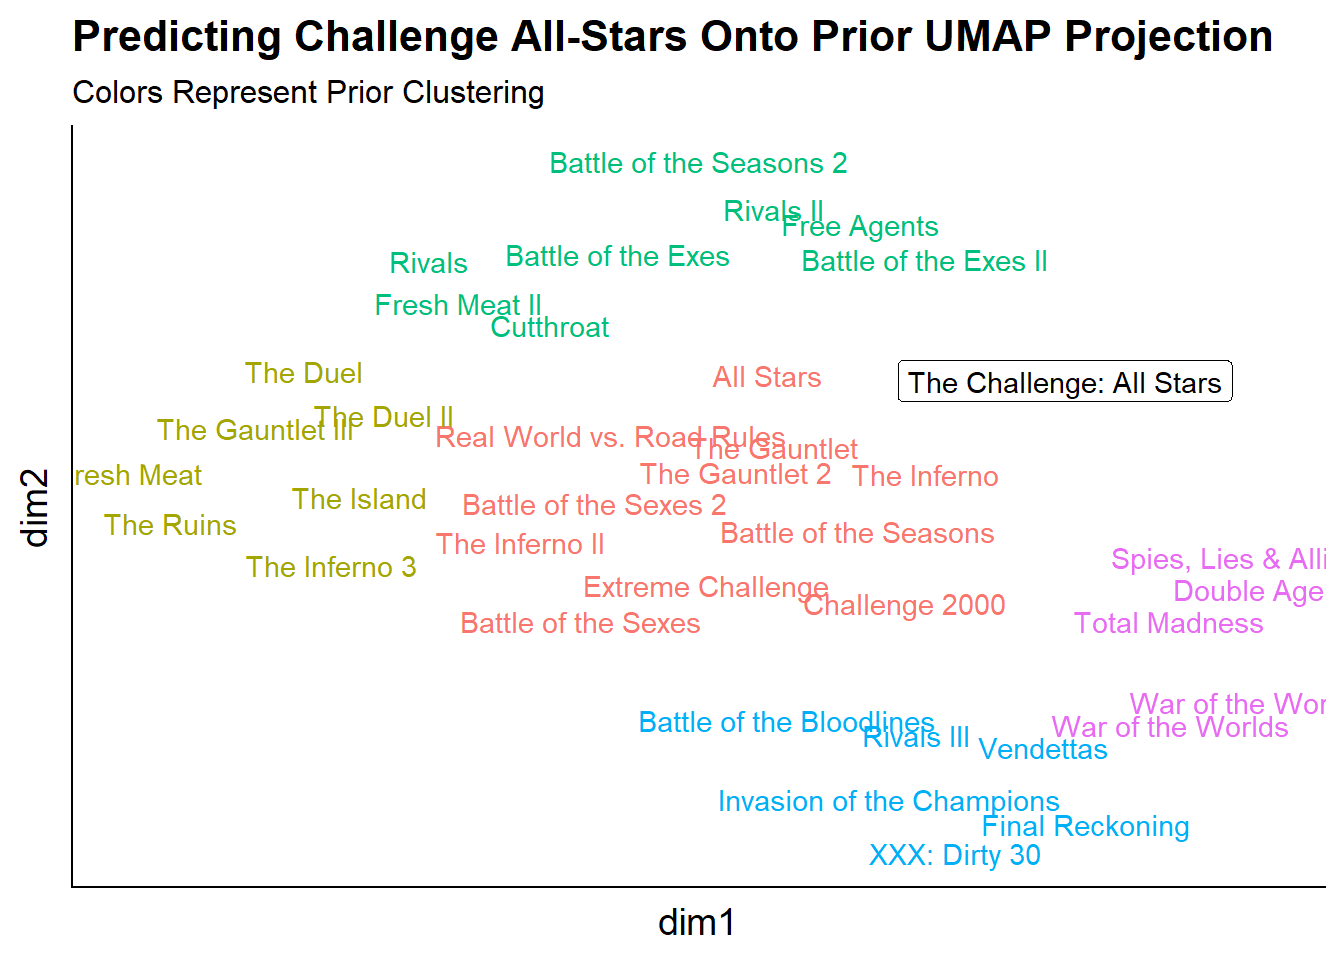
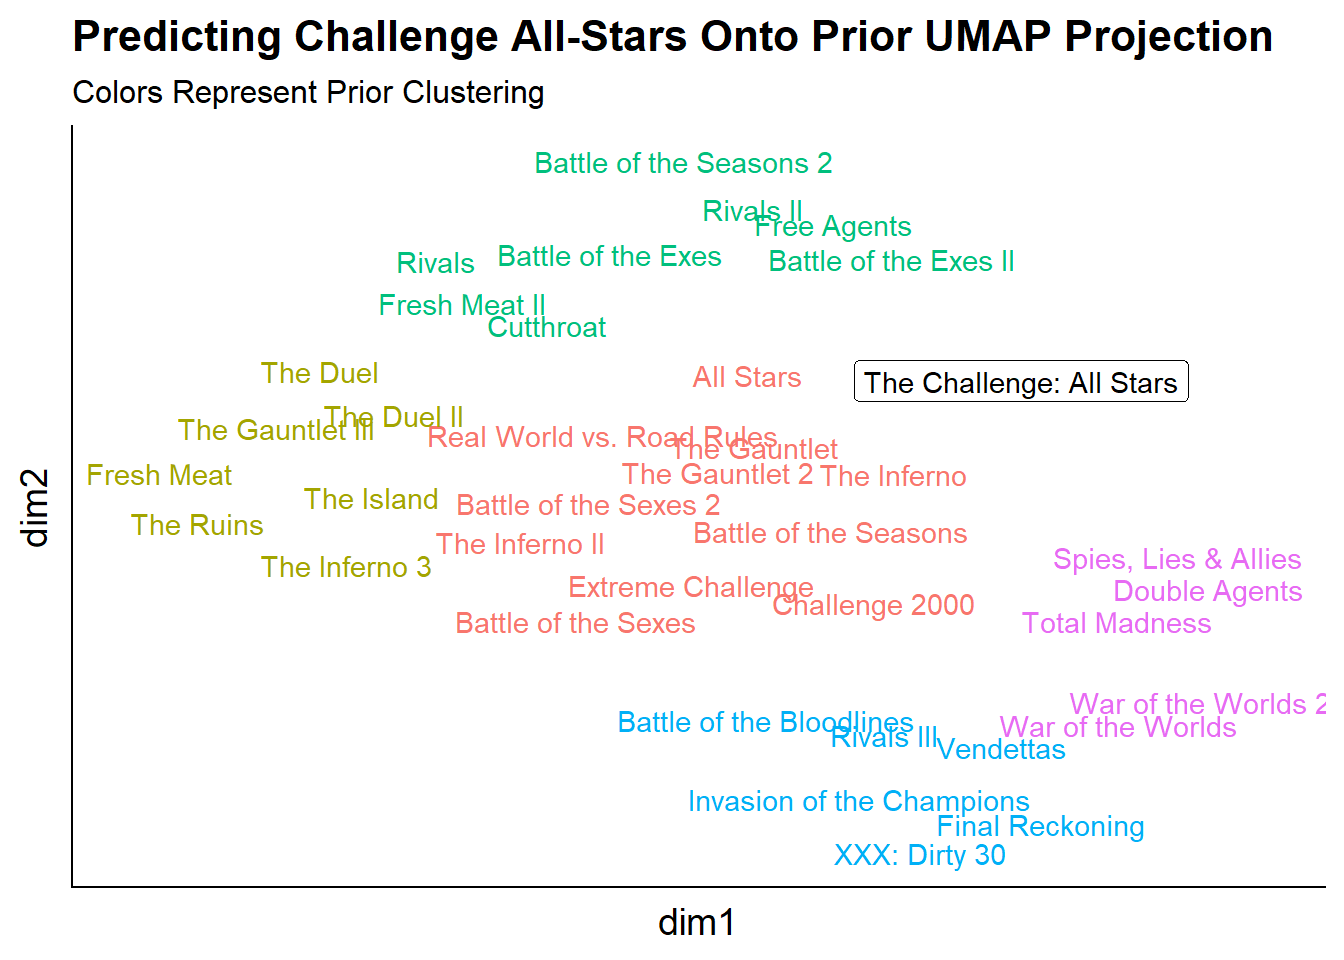
visualization and language updates

diff --git a/content/post/2021-09-15-finding-the-eras-of-mtv-s-the-challenge-through-clustering/index.html b/content/post/2021-09-15-finding-the-eras-of-mtv-s-the-challenge-through-clustering/index.html
@@ -25,8 +25,8 @@ projects: []
 <script src="{{< blogdown/postref >}}index_files/header-attrs/header-attrs.js"></script>
 
 
-<p>Since 1998, <a href="https://en.wikipedia.org/wiki/The_Challenge_(TV_series)">MTV’s The Challenge</a> (formerly the Real World/Road Rules Challenge) has graced the airwaves where it is currently in Season 37. In a prior <a href="https://jlaw.netlify.app/2021/03/01/exploring-wednesday-night-cable-ratings-with-ocr/">post</a> I had mentioned that this is one of my guilty pleasure shows so this will likely not be the last post that is based around the Challenge.</p>
-<p>For casting the show, the early years revolved around having alumni from MTV’s The Real World and Road Rules compete against each other (in an odd bit of irony or misnaming, the first season called Real World: All Stars actually consisted of <strong>only</strong> Real World alumni). Over the next 37 seasons, the series has evolved bringing in other MTV properties such as “Are You the One?” and expanding internationally to properties like “Survivor: Turkey” and “Love Island UK”.</p>
+<p>Since 1998, <a href="https://en.wikipedia.org/wiki/The_Challenge_(TV_series)">MTV’s The Challenge</a> (formerly the Real World/Road Rules Challenge) has graced the airwaves where it is currently in Season 37. In a prior <a href="https://jlaw.netlify.app/2021/03/01/exploring-wednesday-night-cable-ratings-with-ocr/">post</a> I had mentioned that this is one of my guilty pleasure shows so this will likely not be the last post that is based around <a href="https://www.complex.com/pop-culture/2015/01/the-challenge-mtv-americas-fifth-sport">America’s 5th professional sport</a>.</p>
+<p>For casting the show, the early years revolved around having alumni from MTV’s The Real World and Road Rules compete against each other (in an odd bit of irony or misnaming, the first season called Road Rules: All Stars actually consisted of <strong>only</strong> Real World alumni). Over the next 37 seasons, the series has evolved bringing in other MTV properties such as “Are You the One?” and expanding internationally to properties like “Survivor: Turkey” and “Love Island UK”.</p>
 <p>Since the cast of characters has continuously evolved over the 37 seasons, I thought it would be interested to see if I can algorithmically classify the eras of the show based on the cast of each season through Hierarchical Clustering and visualizing using UMAP.</p>
 <div id="libraries" class="section level2">
 <h2>Libraries</h2>
@@ -39,7 +39,8 @@ library(umap) # For dimensionality reduction</code></pre>
 </div>
 <div id="getting-the-data" class="section level2">
 <h2>Getting the Data</h2>
-<p>Since the goal is to cluster the seasons of the The Challenge based on similarity of their casts, I need to get the cast list from each of the 37 seasons. Fortunately, Wikipedia contains the casts within each season’s page. Unfortunately, I’m lazy and really don’t want to specifically hunt down the URLs for each of 37 seasons and write individual rvest code. So I’ll use the <a href="https://en.wikipedia.org/wiki/The_Challenge_(TV_series)#Seasons">Seasons</a> table on Wikipedia to act as a driver file for each season’s page using <code>rvest</code> to extract the table using its xpath, pulling out all of the anchor elements (<a>) <em>html_attrs()</em> to extract all of the attributes into a list and using <code>purrr</code>’s <code>map_dfr</code> function to combine all of the links into a list. Unfortunately, there are multiple links on row of the table (one for the title and one of the location of the season), so using <code>stringr</code>’s <em>str_detect</em>, I’ll keep only the rows that has the word “Challenge” in the title. Or “Stars” in the case of the first season which was just called “Road Rules: All-Stars”.</p>
+<p>Since the goal is to cluster the seasons of the The Challenge based on similarity of their casts, I need to get the cast list from each of the 37 seasons. Fortunately, Wikipedia contains the casts within each season’s page. Unfortunately, I’m lazy and really don’t want to specifically hunt down the URLs for each of 37 seasons and write individual rvest code.</p>
+<p>So I’ll use the <a href="https://en.wikipedia.org/wiki/The_Challenge_(TV_series)#Seasons">Seasons</a> table on Wikipedia to act as a driver file for each season’s page using <code>rvest</code> to extract the table using its xpath, pulling out all of the anchor elements (<code>&lt;a&gt;</code>), using <em>html_attrs()</em> to extract all of the attributes into a list and using <code>purrr</code>’s <code>map_dfr</code> function to combine all of the links into a list. Unfortunately, there are multiple links on row of the table (one for the title and one of the location of the season), so using <code>stringr</code>’s <em>str_detect</em>, I’ll keep only the rows that has the word “Challenge” in the title. Or “Stars” in the case of the first season which was just called “Road Rules: All-Stars”.</p>
 <pre class="r"><code>seasons &lt;- read_html(&#39;https://en.wikipedia.org/wiki/The_Challenge_(TV_series)&#39;) %&gt;%
   html_element(xpath = &#39;/html/body/div[3]/div[3]/div[5]/div[1]/table[2]&#39;) %&gt;% 
   html_elements(&#39;a&#39;) %&gt;% 
@@ -74,23 +75,7 @@ library(umap) # For dimensionality reduction</code></pre>
 </tbody>
 </table>
 <p>The dataset now has the Wikipedia link for each season in the <em>href</em> column and a more human-reading title in the <em>title</em> column.</p>
-<p>The next problem to tackle is iterating through each season to extract the cast table. The issue here is that the Cast table is not uniform on each season’s page and the cast table is not always the same ordered table. In fact, there are three classes of tables to have to deal with:</p>
-<ol style="list-style-type: decimal">
-<li>Multiple Tables - Single Names</li>
-</ol>
-<p>For many of The Challenge seasons there are two teams (originally Real World vs. Road Rules but eventually taking on other themes like Rookies vs. Vets, Champions vs. Challengers, etc.). In this cases, there are two tables to exact with each table having one column for cast the member name.</p>
-<p><img src="two_table_one_name.png" /></p>
-<ol start="2" style="list-style-type: decimal">
-<li>Single Table - Two Names</li>
-</ol>
-<p>In seasons where there are pairs instead of teams, such as Fresh Meat, Rivals and Battle of the Exes, there will be one table for the cast but two columns of names to extract.</p>
-<p><img src="one_table_two_names.PNG" /></p>
-<ol start="3" style="list-style-type: decimal">
-<li>Multiple Tables - Two Names</li>
-</ol>
-<p>In the original Battle of the Seasons there were pairs (one male and one female from each season) that were also classified into teams (Real World or Road Rules). For this season, there were two tables to extract and each with two columns, one for the male and one for the female.</p>
-<p><img src="two_table_two_names.jpg" /></p>
-<p>There was no easy way (or at least one that I wanted to deal with) to automatically classify each of the 37 seasons into these three types so I manually looked at all 37 season Wikipedia pages and coded in which tables to extract and which columns to extract within each table.</p>
+<p>The next problem to tackle is iterating through each season to extract the cast table. The issue here is that the Cast table is not uniform on each season’s page and the cast table is not always the same ordered table. So in the end I did have to look at all 37 pages to determine which tables and which columns within those tables to extract.</p>
 <pre class="r"><code>## Set up which tables and columns to extract from Wikipedia
 seasons &lt;- seasons %&gt;%
   mutate(
@@ -109,7 +94,7 @@ seasons &lt;- seasons %&gt;%
       TRUE ~ &#39;1&#39;
     )
   )</code></pre>
-<p>For example, the default was Multiple Tables - One Column where the two tables were the 3rd and 4th tables on the page and we only needed the first column.</p>
+<p>For example, the default was where the two tables to extract were the 3rd and 4th tables on the page and I only needed the first column.</p>
 <p>With this additional metadata, I could now write a function to read the URL and extract the correct tables and table columns:</p>
 <pre class="r"><code>### Write Function to Scrape the Names
 get_cast &lt;- function(url, table_num, keep_cols, title, order){
@@ -369,12 +354,13 @@ as_tbl_graph(similarity) %&gt;%
     geom_node_label(aes(label = name, fill = order), size = 5) + 
     scale_fill_viridis_c(begin = .3) + 
     scale_shape_discrete(guide = &#39;none&#39;) + 
+    scale_x_continuous(expand = expansion(add = c(.6, .8))) +
     labs(title = &quot;Network of Challenge Seasons&quot;,
          subtitle = &quot;Edges measured by Cosine Similarity of Cast&quot;,
          caption = &quot;All Stars and RW vs RR did not have &gt;.0.29 Similarity to Any Other Season&quot;,
          alpha = &quot;Cosine Similarity&quot;,
          fill = &quot;Season #&quot;) + 
-    theme_graph() + 
+    theme_graph(plot_margin = margin(30, 0, 0, 30)) + 
     theme(
       legend.position = &#39;bottom&#39;
     )</code></pre>
@@ -383,9 +369,9 @@ Through the network graph we can see that the first two seasons aren’t connect
 </div>
 <div id="clustering-the-seasons-with-hierarchical-clustering" class="section level2">
 <h2>Clustering the Seasons with Hierarchical Clustering</h2>
-<p>Now that EDA is done, its time to determine our eras through clustering. In order to use hierarchical clustering I need to create a distance matrix. So do so I will replicate some of the code from above where each row will be a season and each column a Challenger and the value will be either 1 if they were on that season or 0 otherwise.</p>
-<p>Since this data is binary I will be using a binary distance where 1 and 1 is a match and anything else is a mismatch (e.g, 0 and 0 despite being the same value does not count as similarity). The definition is the proportion of bits in which only one is one among those where at least one is one.</p>
-<p>Then the hierarchical clustering algorithm is run with <code>hclust</code>. There are many different agglomeration methods that can be used ranging from single (where difference between clusters is defined by their closest elements), complete (which defines differences by farthest apart elements), average (which is the average of all the points distance), and Ward which is the minimal distance between sum of squares. For more information, see this <a href="https://stats.stackexchange.com/questions/195446/choosing-the-right-linkage-method-for-hierarchical-clustering/217742#217742">CrossValidated</a> answer.</p>
+<p>Now that EDA is done, its time to determine our eras through clustering. In order to use hierarchical clustering I need to create a distance matrix. To do so I will replicate some of the code from above where each row will be a season and each column a Challenger and the value will be either 1 if they were on that season or 0 otherwise.</p>
+<p>Since this data is binary I will be using a binary distance where 1 and 1 is a match and any 1/0 pair is a mismatch (e.g, 0 and 0 despite being the same value does not count as similarity). The definition is the proportion of bits in which only one is on among those where at least one is on.</p>
+<p>Then the hierarchical clustering algorithm is run with <code>hclust</code>. There are many different agglomeration methods that can be used ranging from <strong>single</strong> (where difference between clusters is defined by their closest elements), <strong>complete</strong> (which defines differences by farthest apart elements), <strong>average</strong> (which is the average of all the points distance), and <strong>Ward</strong> which is the minimal distance between sum of squares. For more information, see this <a href="https://stats.stackexchange.com/questions/195446/choosing-the-right-linkage-method-for-hierarchical-clustering/217742#217742">CrossValidated</a> answer.</p>
 <pre class="r"><code># Cast Data to Wide Format
 dt &lt;- all_cast_info %&gt;%
   transmute(order, short_title, Name, ind = 1) %&gt;%
@@ -401,51 +387,89 @@ dst &lt;- dt %&gt;%
   select(-order, -short_title) %&gt;%
   dist(method = &#39;binary&#39;) %&gt;%
   #the agglomeration method to be used. 
-  # This should be (an unambiguous abbreviation of) one of &quot;ward.D&quot;, 
-  #&quot;ward.D2&quot;, &quot;single&quot;, &quot;complete&quot;, &quot;average&quot; (= UPGMA), &quot;mcquitty&quot; (= WPGMA),
-  #&quot;median&quot; (= WPGMC) or &quot;centroid&quot; (= UPGMC).
   hclust(method = &#39;ward.D2&#39;)</code></pre>
-<p>I can then visualize the resulting dendrogram using the <code>plot()</code> function and supplying the short_title field I can previously excluded as a label parameter. By looking at the dendrogram it seems like there are five clusters which I will highlight with the <code>rect.hclust</code> function and specifying k=5:</p>
+<p>I can then visualize the resulting dendrogram using the <code>plot()</code> function and supplying the short_title field I previously excluded as a label parameter. By looking at the dendrogram it seems like there are five clusters which I will highlight with the <code>rect.hclust</code> function and specifying k=5:</p>
 <pre class="r"><code>plot(dst, labels = dt$short_title, 
      main = &#39;Hierarchical Clustering of Challenge Seasons&#39;,
      xlab = &#39;&#39;)
 rect.hclust(dst, k = 5)</code></pre>
 <p><img src="{{< blogdown/postref >}}index_files/figure-html/dendrogram-1.png" width="672" />
 Based on the dendrogram, there are five clusters:</p>
-<ul>
-<li>Cluster 1: Seasons 1 (All Stars) through 11 (Gauntlet 2)</li>
-</ul>
-<p>This are the originals before they brought in people who weren’t on either Real World or Road Rules</p>
-<ul>
-<li>Cluster 2: Seasons 12 (Fresh Meat) through 18 (The Ruins)</li>
-</ul>
-<p>Fresh Meat is the first season where people not appealing on a prior MTV show joined. This group of new people also formed a core backbone of the show for the next block of seasons.</p>
-<ul>
-<li>Cluster 3: Seasons 19 (Fresh Meat 2) through Season 26 (Battle of the Exes 2)</li>
-</ul>
-<p>In Fresh Meat 2, they again introduce half of the cast that were new.</p>
-<ul>
-<li>Cluster 4: Seasons 27 (Battle of the Bloodlines) through Season 32 (Final Reckoning)</li>
-</ul>
-<p>Battle of the Bloodlines, similar to Fresh Meat, was a season where half the cast was new. Although this time they were family members rather than unaffiliated challengers.</p>
-<ul>
-<li>Cluster 5: Season 33 (War of the World) through Season 37 (Current Season)</li>
-</ul>
-<p>War of the Worlds was again a large influx of new cast members</p>
+<table>
+<tr>
+<th>
+</th>
+<th>
+Cluster #1
+</th>
+<th>
+Cluster #2
+</th>
+<th>
+Cluster #3
+</th>
+<th>
+Cluster #4
+</th>
+<th>
+Cluster #5
+</th>
+</tr>
+<tr>
+<td>
+Seasons:
+</td>
+<td>
+1 (All-Stars) to 11 (Gauntlet 2)
+</td>
+<td>
+12 (Fresh Meat) to 18 (The Ruins)
+</td>
+<td>
+19 (Fresh Meat 2) to 26 (Battle of the Exes 2)
+</td>
+<td>
+27 (Battle of the Bloodlines) to 32 (Final Reckoning)
+</td>
+<td>
+33 (War of the Worlds) to 37 (Spies, Lies, and Allies)
+</td>
+<tr>
+<td>
+Why?
+</td>
+<td>
+Original seasons when challengers were only from Real World or Road Rules
+</td>
+<td>
+First Introduction of challengers not from prior properties
+</td>
+<td>
+Second Injection of challenges not from prior properties
+</td>
+<td>
+Half of the case are family members of prior challengers
+</td>
+<td>
+Introduction of large influx of new challengers from internaional reality shows
+</td>
+</tr>
+</table>
 <p>So it seems like the algorithm latched on to change points where the casts became heavily rookies, which would make sense since that is a forced dissimilarity.</p>
-<p>Going back to the data, I can then add the get the cluster results through the <code>cuttree</code> function and providing it with the k=5 value and add it back to the original dataset with <code>mutate()</code>:</p>
+<p>Returning to the data I can append the cluster assignment to the orignal data with the <code>cuttree</code> function and providing it the number of clusters to return.</p>
 <pre class="r"><code>h_clust_results &lt;- dt %&gt;%
   mutate(cluster = cutree(dst, k = 5))</code></pre>
 </div>
 <div id="dimensionality-reduction-with-umap" class="section level2">
 <h2>Dimensionality Reduction with UMAP</h2>
-<p>The data set used for the clustering contained 37 rows representing each season of The Challenge and 360 columns representing every challenge who has ever been on the show. This type of data is prime for dimensionality reduction. Uniform Manifold Approximation and Projection (UMAP) is a dimensional technique that can be used for dimensionality reduction and visualization similar to T-SNE. The UMAP algorithm can be found in the <code>umap</code> package.</p>
-<p>Running UMAP is pretty straightforward with the <code>umap()</code> function and here I provide it the very wide data set used for cluster. In the returned object there is an element called <em>layout</em> which contains the compressed two dimensional space returned by UMAP.</p>
+<p>The data set used for the clustering contained 37 rows representing each season of The Challenge and 360 columns representing every challenge who has ever been on the show. This type of data is prime for dimensionality reduction. Uniform Manifold Approximation and Projection (UMAP) is a technique that can be used for dimensionality reduction and visualization similar to T-SNE. The UMAP algorithm can be found in the <code>umap</code> package.</p>
+<p>Running UMAP is pretty straightforward with the <code>umap()</code> function and here I give it the very wide data set used for clustering. In the returned object there is an element called <em>layout</em> which contains the compressed two dimensional space returned by UMAP. Again I’m setting a seed as the results of UMAP can be non-deterministic.</p>
 <pre class="r"><code>set.seed(20210904)
 ump &lt;- umap(dt %&gt;% select(-order, -short_title))</code></pre>
-<p>I can add those dimensions to the clustering results from above to see how closely the UMAP compression will match the clustering from the <code>hclust</code> function:</p>
+<p>I can add then those dimensions to the clustering results from above to see how closely the UMAP compression will match the clustering from the <code>hclust</code> function:</p>
 <pre class="r"><code>h_clust_results %&gt;% 
   select(order, short_title, cluster) %&gt;%
+  # Add in UMAP dimensions
   mutate(
     dim1 = ump$layout[, 1],
     dim2 = ump$layout[, 2]
@@ -455,6 +479,7 @@ ump &lt;- umap(dt %&gt;% select(-order, -short_title))</code></pre>
   labs(title = &#39;UMAP Projection of Challenge Seasons&#39;,
        subtitle = &quot;Colors Represent Prior Clustering&quot;) + 
   scale_color_discrete(guide = &#39;none&#39;) + 
+  scale_x_continuous(expand = expansion(add = c(.3, .4))) + 
   cowplot::theme_cowplot() + 
   theme(
     axis.ticks = element_blank(),
@@ -464,7 +489,7 @@ ump &lt;- umap(dt %&gt;% select(-order, -short_title))</code></pre>
 Overall, the UMAP projection captures similar information to the clustering since both methods were unsupervised and the colors (the prior clusters) are very close in the UMAP projected space.</p>
 <div id="predicting-new-observations-with-umap" class="section level3">
 <h3>Predicting New Observations with UMAP</h3>
-<p>In the summer of 2020, <a href="https://en.wikipedia.org/wiki/The_Challenge:_All_Stars">The Challenge: All Stars</a> aired on Paramount+. The series was intended to bring back fan favorites from early seasons of the challenge (although whether the actual cast would be considered fan favorites, all-stars, or from early seasons was debatable). An interesting final question to ask is: <em>what cluster would The Challenge: All Stars belong to in the UMAP space?</em>.</p>
+<p>In the summer of 2020, <a href="https://en.wikipedia.org/wiki/The_Challenge:_All_Stars">The Challenge: All Stars</a> aired on Paramount+. The series was intended to bring back fan favorites from early seasons of the challenge (although whether the actual cast would be considered fan favorites, all-stars, or even from early seasons was debatable). An interesting final question to ask is: <em>what cluster would The Challenge: All Stars belong to in the UMAP space?</em>.</p>
 <p>This next block of code is going to do a lot of heavy lifting but isn’t dissimilar from what was done in the earlier parts of this post. I will be downloading the cast from Wikipedia, cleaning it (more marriages and nicknames), and adding it to the original data set to get the 0 cases and the filtering it back to The Challenge: All Stars season.</p>
 <pre class="r"><code>all_stars &lt;- 
   # Take Original Data Set
@@ -497,7 +522,7 @@ Overall, the UMAP projection captures similar information to the clustering sinc
   select(-order, -short_title)</code></pre>
 <p>Then predicting the All Stars season in the UMAP space can be done similar to other predictions in R with the <code>predict</code> function:</p>
 <pre class="r"><code>all_stars_pred &lt;- predict(ump, all_stars)</code></pre>
-<p>which returns a matrix with 1 row for the reason and 2 columns for the UMAP x and y dimensions. Then this can be visualized on top of the original UMAP projection.</p>
+<p>which returns a matrix with 1 row for the season and 2 columns for the UMAP x and y dimensions. Then this can be visualized on top of the original UMAP projection as an annotation.</p>
 <pre class="r"><code># Take Original Data
 h_clust_results %&gt;% 
   select(order, short_title, cluster) %&gt;%
@@ -520,13 +545,14 @@ h_clust_results %&gt;%
   labs(title = &#39;Predicting Challenge All-Stars Onto Prior UMAP Projection&#39;,
        subtitle = &quot;Colors Represent Prior Clustering&quot;) + 
   scale_color_discrete(guide = &#39;none&#39;) + 
-  scale_fill_discrete(guide = &#39;none&#39;) + 
+  scale_fill_discrete(guide = &#39;none&#39;) +
+  scale_x_continuous(expand = expansion(add = c(.3, .4))) +
   cowplot::theme_cowplot() + 
   theme(
     axis.ticks = element_blank(),
     axis.text = element_blank()
   )</code></pre>
 <p><img src="{{< blogdown/postref >}}index_files/figure-html/viz_new_umap-1.png" width="672" />
-It seems like Challenge All-Stars would be part of the first cluster of the original group of seasons but is somewhat between the “green cluster” which could make sense as there were a couple of cast members on the show who first showed up in Battle of the Seasons 2.</p>
+It seems like Challenge All-Stars would be part of the first cluster of the first group of seasons but is somewhat between the “green cluster” which could make sense as there were a couple of cast members on the show who first showed up in the 23rd season (Battle of the Seasons 2).</p>
 </div>
 </div>
